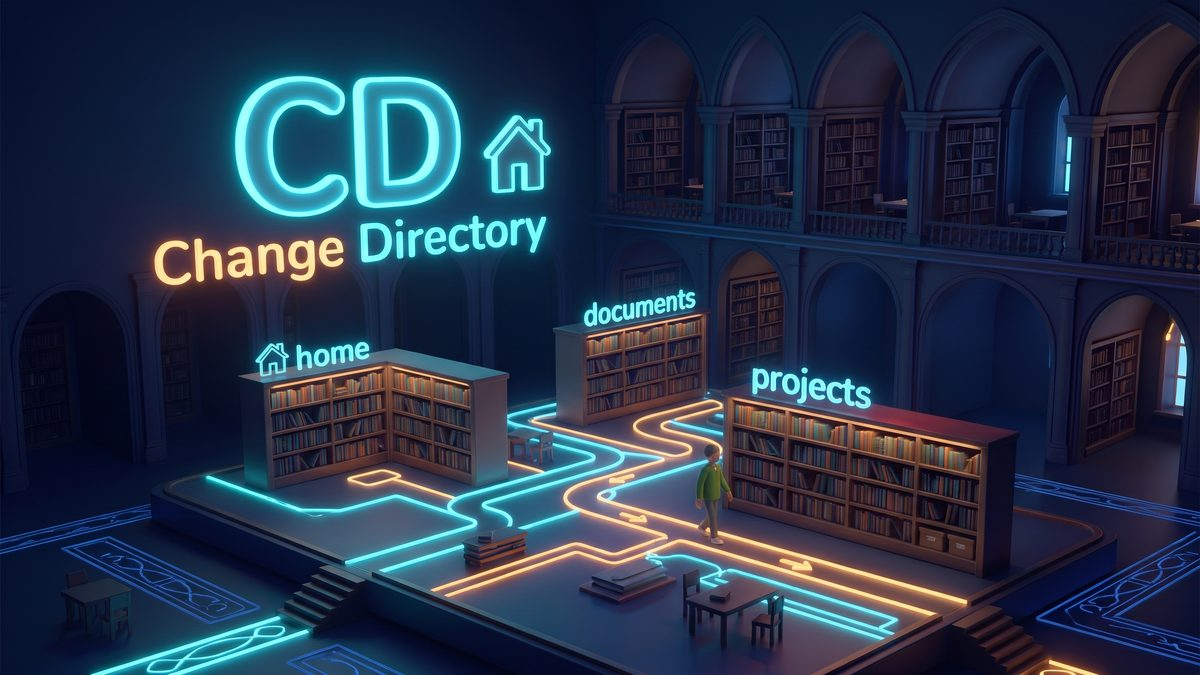
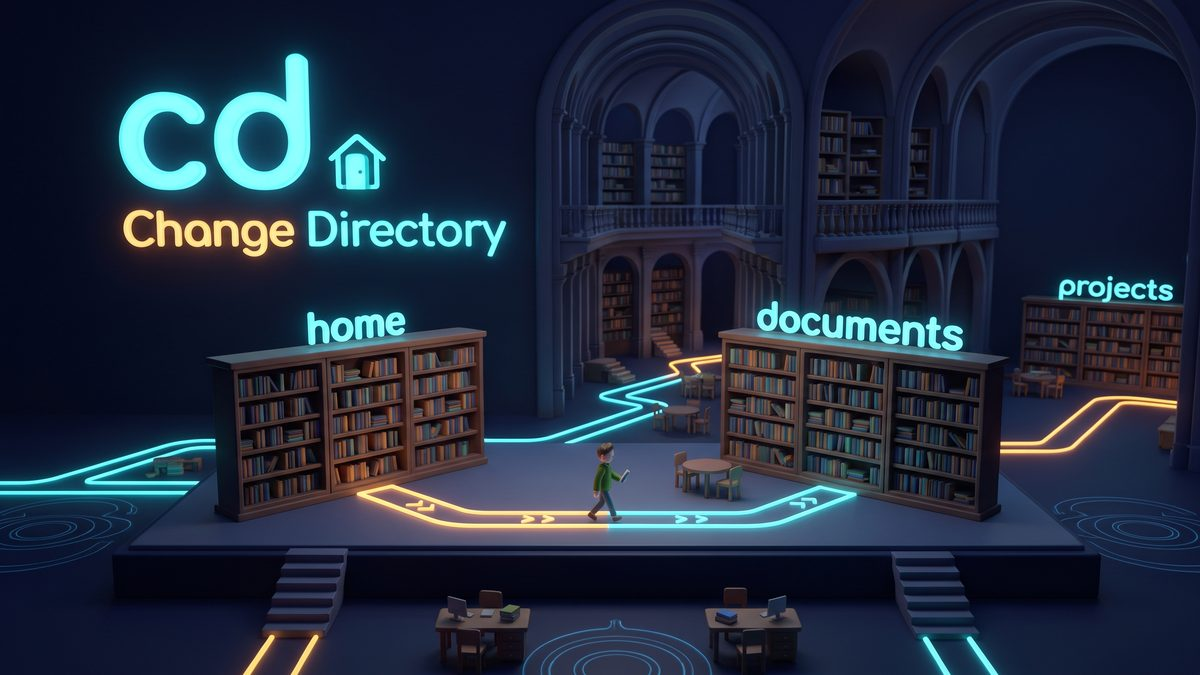
Round 4.10 fix + Round 4.8: Lowercase illustrations, Reference speaker speech synthesis, and ls wording fix

diff --git a/web/src/hooks/useCardAudio.tsx b/web/src/hooks/useCardAudio.tsx
@@ -49,6 +49,9 @@ export const [CardAudioProvider, useCardAudio] = createContextHook(() => {
     if (unlockedRef.current || typeof window === "undefined") return;
     unlockedRef.current = true;
     try {
+      if (typeof window !== "undefined" && "speechSynthesis" in window) {
+        window.speechSynthesis.resume();
+      }
       const Ctx = window.AudioContext ?? (window as unknown as { webkitAudioContext?: typeof AudioContext }).webkitAudioContext;
       if (Ctx) {
         const ctx = new Ctx();
@@ -101,6 +104,13 @@ export const [CardAudioProvider, useCardAudio] = createContextHook(() => {
       el.pause();
       el.removeAttribute("src");
       el.load();
+    }
+    if (typeof window !== "undefined" && "speechSynthesis" in window) {
+      try {
+        window.speechSynthesis.cancel();
+      } catch {
+        /* best-effort */
+      }
     }
     releaseUrl();
     setActiveKey(null);
@@ -163,6 +173,37 @@ export const [CardAudioProvider, useCardAudio] = createContextHook(() => {
       setActiveKey(key);
       setPhase("loading");
 
+      // For Reference entries, speak immediately via SpeechSynthesis without an async network hop
+      // so user gesture context remains active on iOS Safari / iPhone.
+      const isRefKey = key.startsWith("coach:easy:ref:") || key.startsWith("ref:");
+      if (isRefKey && typeof window !== "undefined" && "speechSynthesis" in window) {
+        try {
+          window.speechSynthesis.cancel();
+          const utterance = new SpeechSynthesisUtterance(spoken);
+          utterance.rate = 1.0;
+          utterance.onstart = () => {
+            if (tokenRef.current === token) setPhase("playing");
+          };
+          utterance.onend = () => {
+            if (tokenRef.current === token) {
+              setActiveKey(null);
+              setPhase("idle");
+            }
+          };
+          utterance.onerror = () => {
+            if (tokenRef.current === token) {
+              setActiveKey(null);
+              setPhase("idle");
+            }
+          };
+          window.speechSynthesis.speak(utterance);
+          setPhase("playing");
+          return;
+        } catch {
+          // If speech synthesis fails, fall through to audio clip check
+        }
+      }
+
       let blob: Blob | null = null;
       try {
         blob = await loadClip(clipKey(key, spoken), spoken, key);
@@ -171,6 +212,31 @@ export const [CardAudioProvider, useCardAudio] = createContextHook(() => {
       }
       if (tokenRef.current !== token) return;
       if (!blob) {
+        if (typeof window !== "undefined" && "speechSynthesis" in window) {
+          try {
+            window.speechSynthesis.cancel();
+            const utterance = new SpeechSynthesisUtterance(spoken);
+            utterance.rate = 1.0;
+            utterance.onstart = () => {
+              if (tokenRef.current === token) setPhase("playing");
+            };
+            utterance.onend = () => {
+              if (tokenRef.current === token) {
+                setActiveKey(null);
+                setPhase("idle");
+              }
+            };
+            utterance.onerror = () => {
+              if (tokenRef.current === token) {
+                setActiveKey(null);
+                setPhase("idle");
+              }
+            };
+            window.speechSynthesis.speak(utterance);
+            setPhase("playing");
+            return;
+          } catch {}
+        }
         setActiveKey(null);
         setPhase("idle");
         return;

diff --git a/web/src/test/app.browser.test.tsx b/web/src/test/app.browser.test.tsx
@@ -580,3 +580,62 @@ test("Round 4.10: Reference illustrations for pwd, ls, and cd render after name 
   expect(entryCard.querySelector("img")).toBeNull();
   expect(document.documentElement.scrollWidth).toBeLessThanOrEqual(document.documentElement.clientWidth);
 });
+
+test("Round 4.8 / 4.10 fix: Reference speaker button reads plain-words description aloud, toggles off, and ls description matches new library wording", async () => {
+  await page.viewport(375, 812);
+
+  const spokenTexts: string[] = [];
+  let cancelCount = 0;
+
+  const originalSpeechSynthesis = window.speechSynthesis;
+  if (!originalSpeechSynthesis) {
+    (window as unknown as { speechSynthesis: unknown }).speechSynthesis = {} as SpeechSynthesis;
+  }
+
+  const speakSpy = vi.spyOn(window.speechSynthesis, "speak").mockImplementation((utterance: SpeechSynthesisUtterance) => {
+    spokenTexts.push(utterance.text);
+    // Simulate speech start
+    utterance.dispatchEvent(new Event("start"));
+  });
+  const cancelSpy = vi.spyOn(window.speechSynthesis, "cancel").mockImplementation(() => {
+    cancelCount += 1;
+  });
+
+  try {
+    const screen = await renderApp("/coach");
+
+    await screen.getByTestId("easy-section-reference").click();
+    await screen.getByTestId("reference-section-row-cat-1").click();
+
+    // 1. Open ls: confirm new description
+    await screen.getByTestId("command-item-cmd-ls").click();
+    await expect
+      .element(screen.getByTestId("command-entry-description"))
+      .toHaveTextContent("Opens the shelf and shows you everything on it — what's in this folder.");
+
+    // 2. Tap speaker on ls: confirm plain-words description is read aloud
+    const lsSpeakBtn = screen.getByTestId("command-entry-speak");
+    await lsSpeakBtn.click();
+    expect(speakSpy).toHaveBeenCalled();
+    expect(spokenTexts.at(-1)?.toLowerCase()).toContain("opens the shelf");
+    await expect.element(lsSpeakBtn).toHaveAttribute("aria-pressed", "true");
+
+    // 3. Tapping the button while speaking stops it
+    await lsSpeakBtn.click();
+    expect(cancelSpy).toHaveBeenCalled();
+    await expect.element(lsSpeakBtn).toHaveAttribute("aria-pressed", "false");
+
+    // Back to category list
+    await screen.getByTestId("command-entry-back").click();
+
+    // 4. Open ln: tap speaker and confirm its description is read aloud
+    await screen.getByTestId("command-item-cmd-ln").click();
+    const lnSpeakBtn = screen.getByTestId("command-entry-speak");
+    await lnSpeakBtn.click();
+    expect(spokenTexts.at(-1)?.toLowerCase()).toContain("shortcut");
+    await expect.element(lnSpeakBtn).toHaveAttribute("aria-pressed", "true");
+  } finally {
+    speakSpy.mockRestore();
+    cancelSpy.mockRestore();
+  }
+});

diff --git a/web/src/lib/coach.test.ts b/web/src/lib/coach.test.ts
@@ -507,7 +507,7 @@ describe("easy mode — command reference (Round 2)", () => {
   it("loads library plain-words descriptions and desk-mat examples for all commands", () => {
     const ls = getCommandByName("ls");
     expect(ls).toBeDefined();
-    expect(ls?.description).toContain("Shows you what's on the shelf in front of you");
+    expect(ls?.description).toContain("Opens the shelf and shows you everything on it");
     expect(ls?.example).toBe("ls");
 
     const ss = getCommandByName("ss");
@@ -1385,7 +1385,7 @@ describe("Round 4.5: Library Descriptions + Desk-Mat Examples + Job 6 Fix", () =
 
     const ls = COMMAND_REFERENCE.find((c) => c.name === "ls")!;
     expect(ls.description).toBe(
-      "Shows you what's on the shelf in front of you — the books sitting there, and the smaller shelves tucked among them. Add -a and it shows the books shelved behind the others too, the hidden ones.",
+      "Opens the shelf and shows you everything on it — what's in this folder.",
     );
 
     const mv = COMMAND_REFERENCE.find((c) => c.name === "mv")!;
@@ -1743,6 +1743,19 @@ describe("Round 4.5: Library Descriptions + Desk-Mat Examples + Job 6 Fix", () =
     expect(commandImages.ls).toBe("/images/commands/ls.jpg");
     expect(commandImages.cd).toBe("/images/commands/cd.jpg");
     expect(commandImages.mkdir).toBeUndefined();
+  });
+
+  it("Round 4.8 / 4.10 fix: ls description updated and no reference description contains drawer or cabinet", async () => {
+    const { COMMAND_REFERENCE } = await import("@/data/command-reference");
+    const ls = COMMAND_REFERENCE.find((c) => c.name === "ls")!;
+    expect(ls.description).toBe("Opens the shelf and shows you everything on it — what's in this folder.");
+
+    for (const cmd of COMMAND_REFERENCE) {
+      const lower = cmd.description.toLowerCase();
+      expect(lower).not.toContain("drawer");
+      expect(lower).not.toContain("cabinet");
+      expect(lower).not.toContain("filing cabinet");
+    }
   });
 });
 

diff --git a/web/src/pages/EasyMode.tsx b/web/src/pages/EasyMode.tsx
@@ -923,12 +923,10 @@ export default function EasyMode({ initialSection = "menu" }: EasyModeProps = {}
                   data-testid="command-entry-speak"
                   aria-label={`Hear description for ${selectedEntry.name}`}
                   aria-pressed={isEntryPlaying}
-                  onClick={() =>
-                    toggle(
-                      entryAudioKey,
-                      `${selectedEntry.name}. ${selectedEntry.description} Example: ${selectedEntry.example}`,
-                    )
-                  }
+                  onClick={() => {
+                    unlock();
+                    toggle(entryAudioKey, selectedEntry.description);
+                  }}
                   className={cn(
                     "inline-flex h-8 w-8 shrink-0 items-center justify-center rounded-lg border transition-colors",
                     isEntryPlaying

diff --git a/web/src/data/command-reference.ts b/web/src/data/command-reference.ts
@@ -115,7 +115,7 @@ export const COMMAND_REFERENCE: CommandReferenceEntry[] = [
     "categoryNumber": 1,
     "categoryName": "File, Directory, and Text Manipulation",
     "group": "Navigation & File Ops",
-    "description": "Shows you what's on the shelf in front of you — the books sitting there, and the smaller shelves tucked among them. Add -a and it shows the books shelved behind the others too, the hidden ones.",
+    "description": "Opens the shelf and shows you everything on it — what's in this folder.",
     "example": "ls",
     "linuxDeckPrompt": "List directory contents",
     "keywords": [
